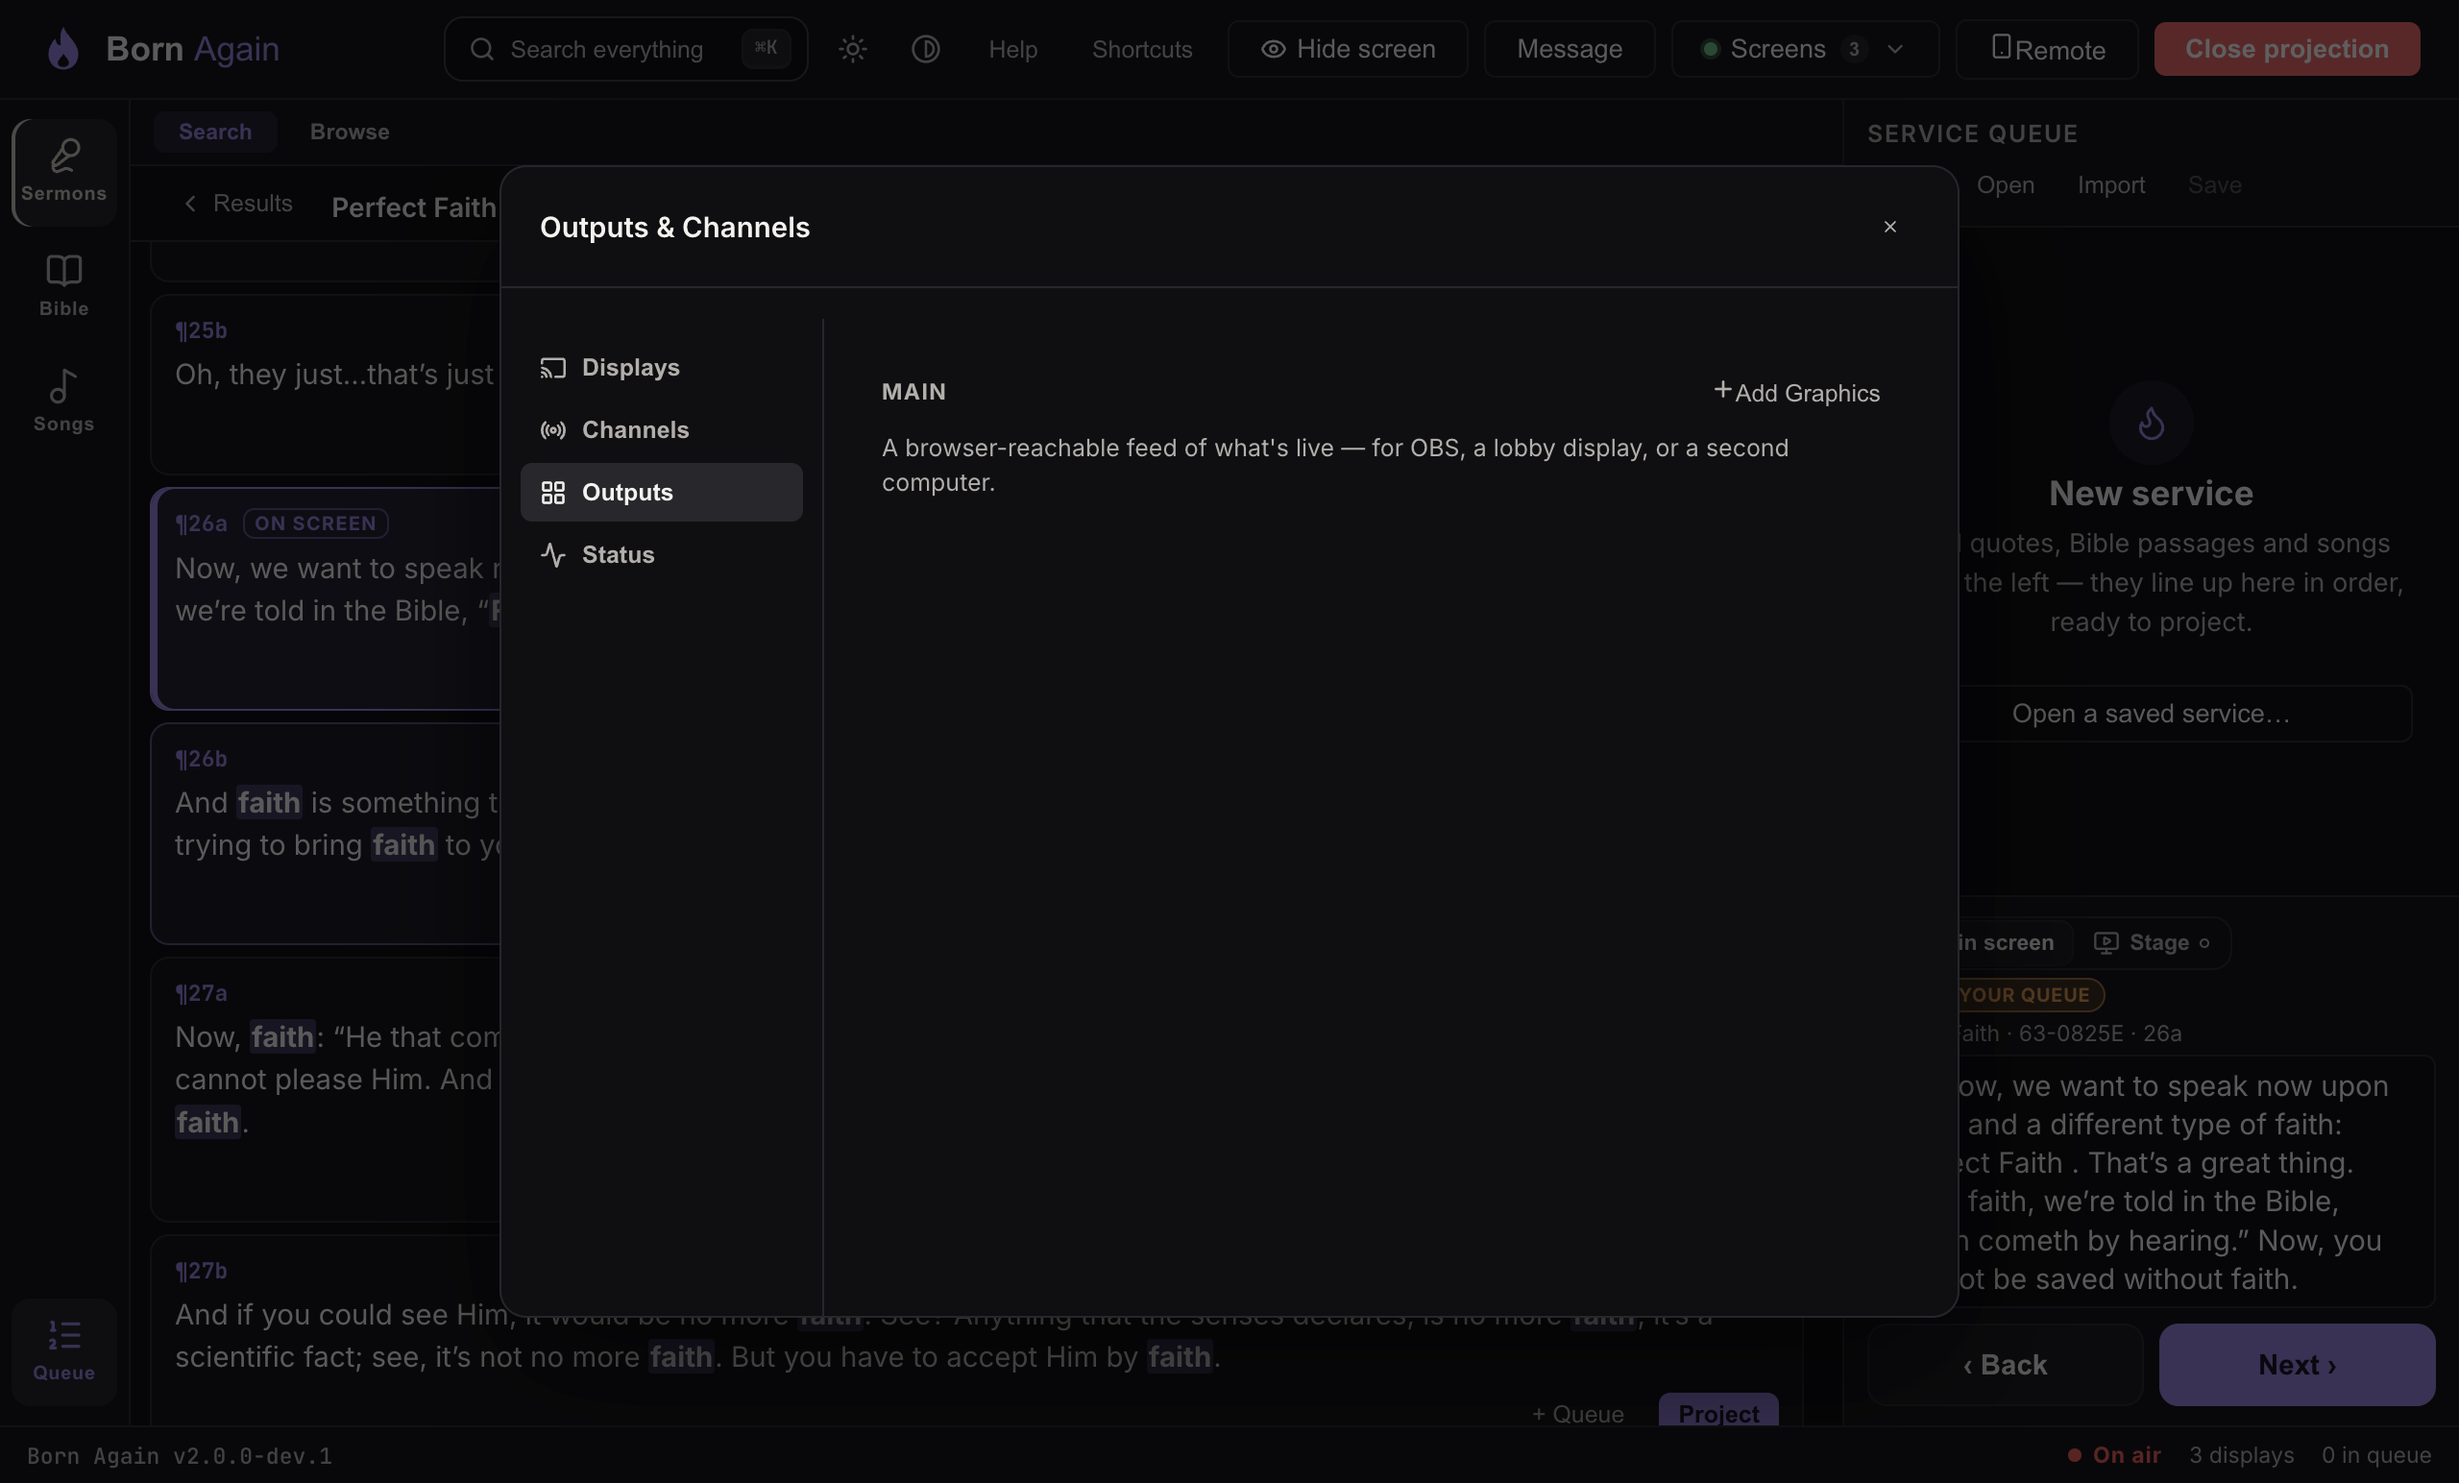
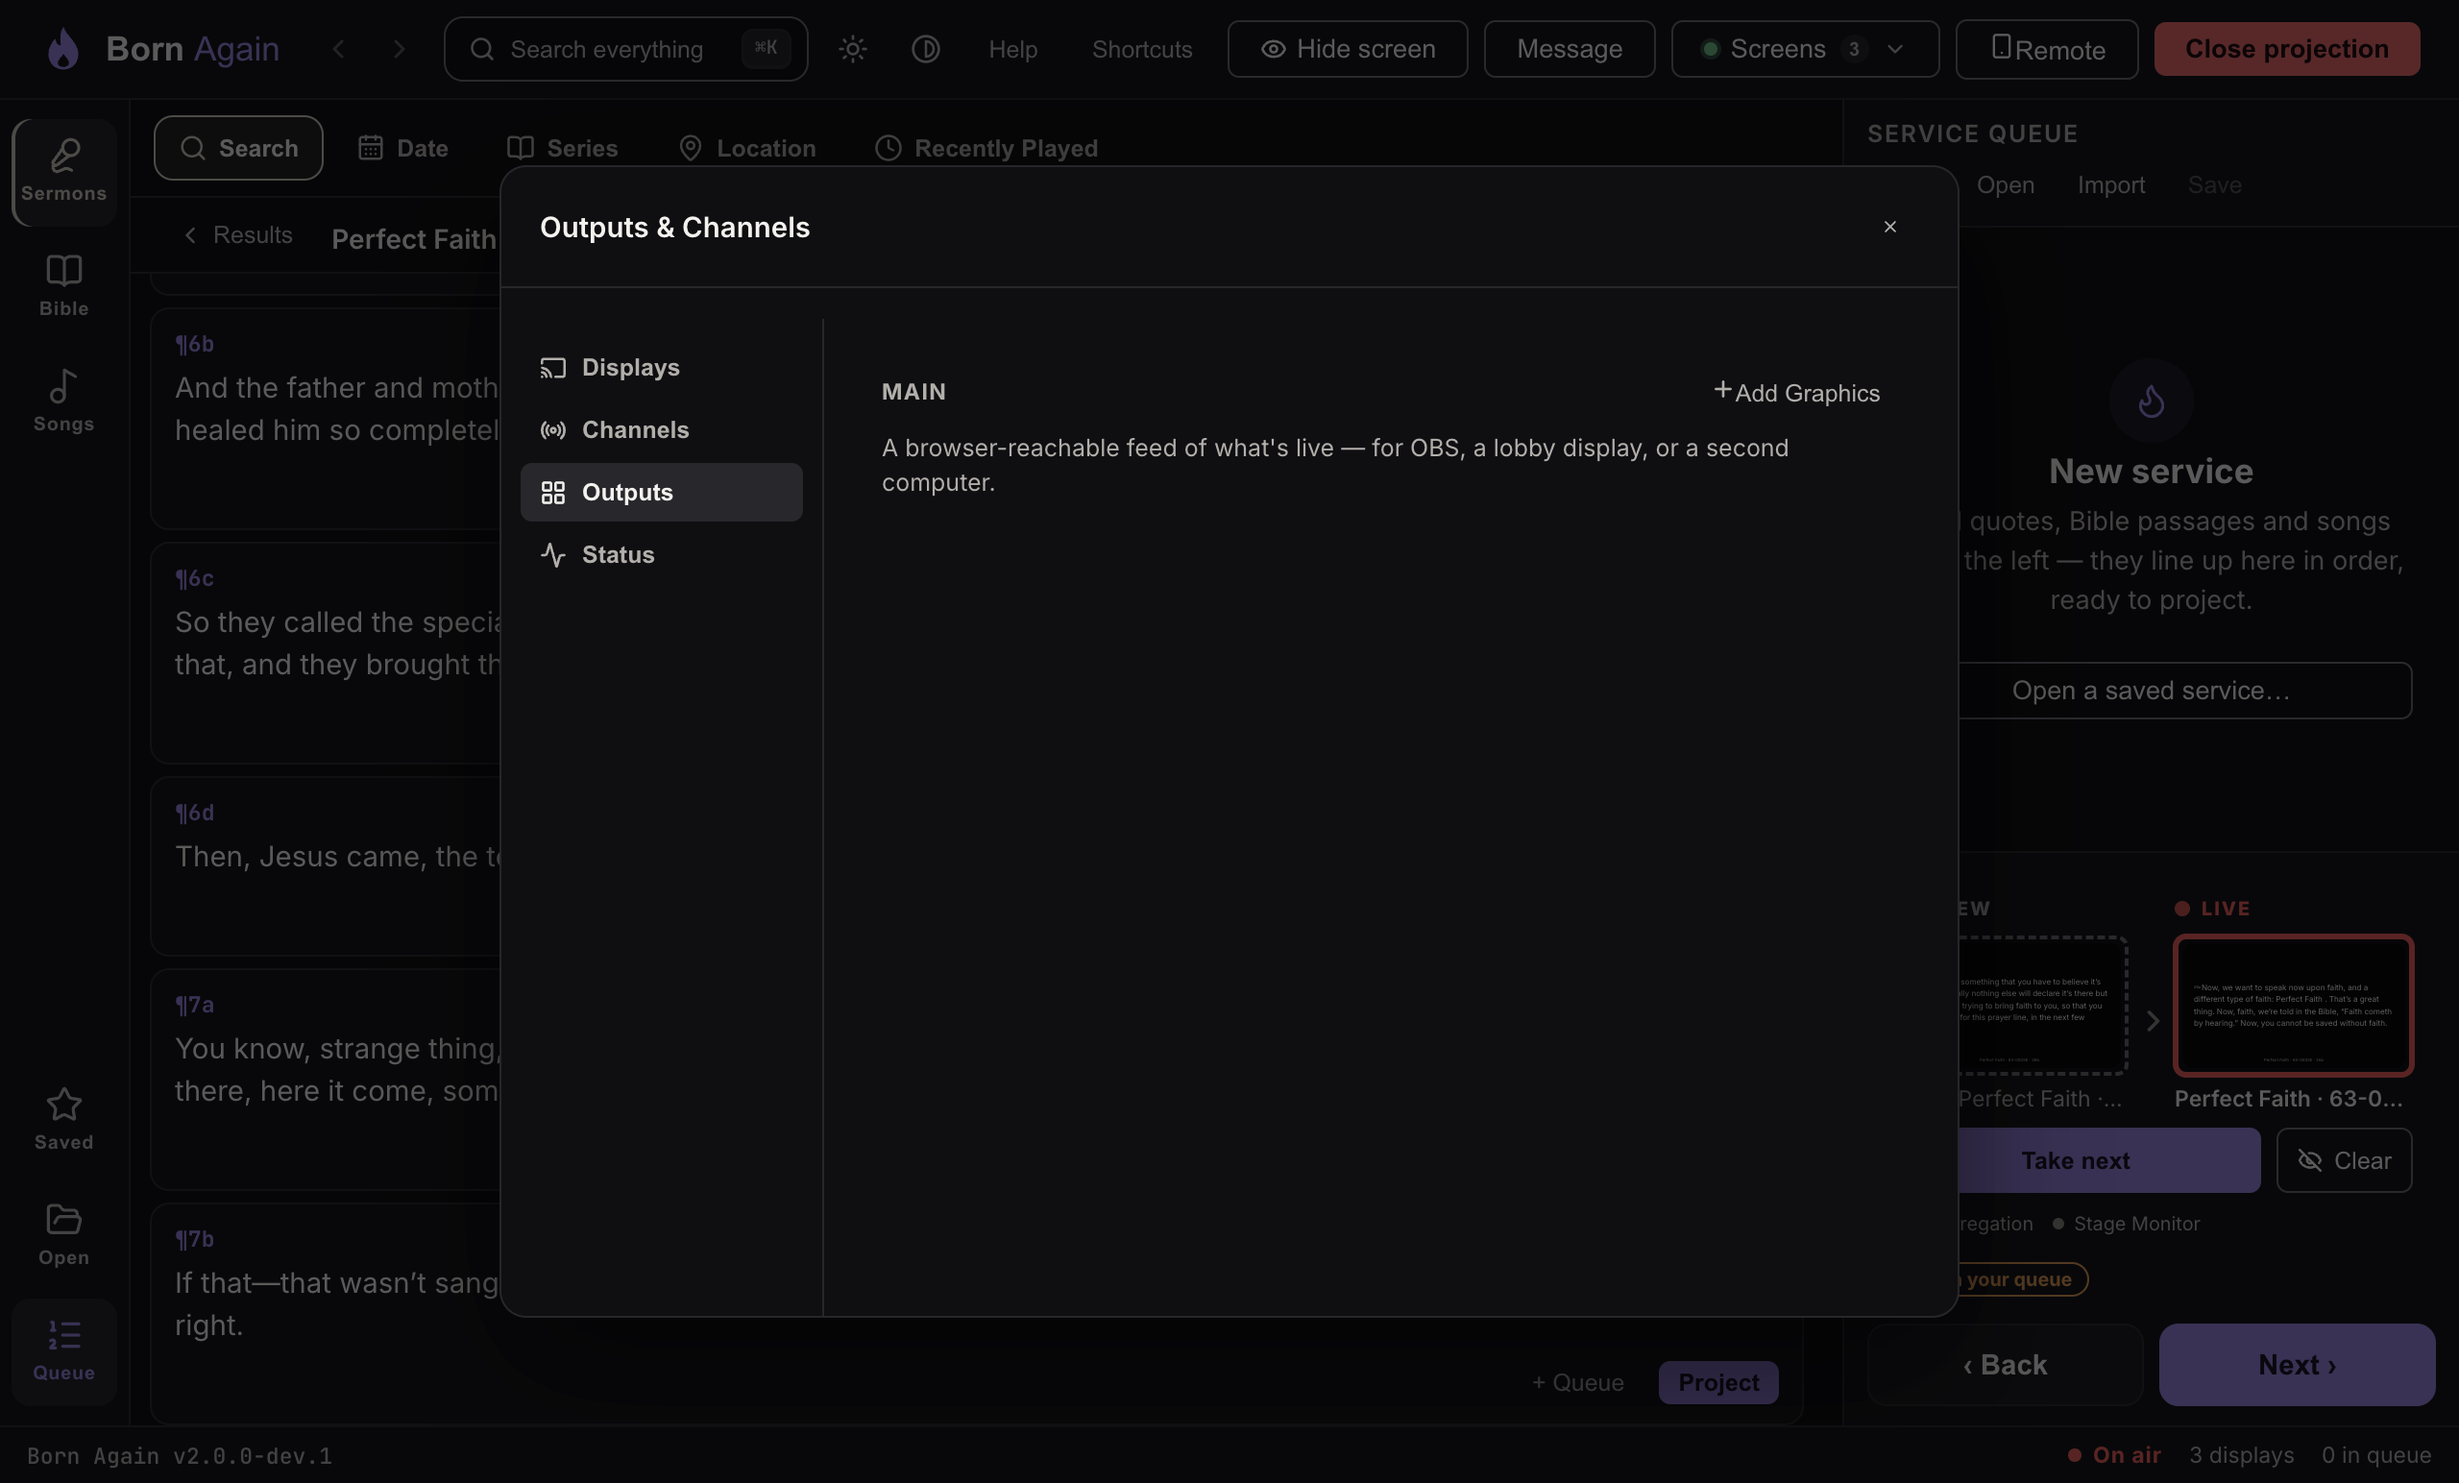
QA: batch 2 report, theme matrix + remote screenshots, regenerated manual screenshots

diff --git a/docs/qa/v2-ui-report.md b/docs/qa/v2-ui-report.md
@@ -67,3 +67,132 @@ queue, a very long sermon, slow hardware. Lists are **not virtualized**; no new 
 - The Preview/Live pair is the existing "on screen + next" block in the queue, restyled by the new tokens only.
 - The Phase 1 prototype (`?proto=drilldown`, Ctrl+Alt+Shift+D) is still in the tree; delete
   `src/renderer/src/prototype/` and the hook in `main.tsx` when you no longer want it.
+
+
+---
+
+# Batch 2 (themes, Preview/Live, performance, safety, organization)
+
+Same branch, `v2-ui-born-again`. `origin/main` (docs-only commit `74ededf`) was merged in at the start
+(v2's `CLAUDE.md` kept). Nothing was merged to `v2-channels`, tagged or released; v1/`main` untouched; v2's
+internal identity unchanged.
+
+## 1. Themes and contrast
+
+- **Automated token check:** `src/test/shared/themeContrast.test.ts` (126 checks) covers every text/surface pair,
+  content colours, status colours, filled-button text, control boundaries (>= 3:1) and the focus ring for
+  dark, light, high-contrast dark and high-contrast light, plus the phone remote's dark and light tokens
+  (AA everywhere; AAA for high-contrast text).
+- **Runtime audit** (a script that walks the live DOM, composites real backgrounds and checks every
+  visible text node and every bordered control): 13 screens/states x 3 window sizes (1040x640, 1440x900,
+  2560x1440) x 4 themes = **156 audits, 0 findings** after fixes. States: sermon search, sermon text +
+  queue, sermon browse, Bible, Songs, context menu, undo toast, Saved panel, command palette, shortcuts,
+  Help, Screens popover, Manage modal. (Not covered: the projection output and stage monitor, which are
+  always black/white by design; the Preview/Live pair with projection open was checked by eye only.)
+- **Found and fixed:** `--border-strong` was ~1.8:1 (now >= 3:1); light-theme sermons colour and live red
+  were just under AA on hover surfaces; high-contrast status colours were not AAA; dimming text with
+  `opacity` pushed several labels under AA; control boundaries (secondary buttons, selects, chips, month
+  pills, chapter numbers) were hairlines; "Connected" and the played-item check turned red when live became
+  red — connected/played are now OK-green and red is only live.
+- **Live is unmistakable:** a red frame, red dot and the word LIVE in the pair, red "On air" in the status
+  bar, red edge on the active queue row; token test asserts live is red-dominant in all four themes.
+- **Not done:** a 4K/large-monitor scale-up of the control UI (it is the same pixel size at 2560 wide;
+  Electron's zoom shortcuts still work).
+
+## 2. Preview / Live pair
+
+- Source of truth is the main process: it pushes `live:changed` on every slide/blank/clear and serves
+  `live:snapshot`; the pair re-reads on a 2.5 s timer and on window focus, so a missed event cannot leave
+  a stale thumbnail. The renderer's own idea of "what's projected" is not consulted for LIVE.
+- Thumbnails are a 1920x1080 miniature using the output's own geometry and the same auto-fit hook.
+- Clicking a queue row stages it in PREVIEW; **Take** projects it (or does **Next** with nothing staged);
+  **Clear** is a blackout that keeps your place. Channel tabs appear when more than one channel exists
+  and show that channel's own output, sync mode and destination health.
+- 7 tests (output wins over UI, recovery on timer, staged never changes live, channel switch, hidden).
+
+## 3. Long lists - measured (clean profile, dev build, Apple-silicon laptop, 120 Hz)
+
+"6x" = Chrome DevTools CPU throttling x6 to approximate a slow booth laptop.
+
+| What | Before | After | Notes |
+|---|---|---|---|
+| Search "God" (25,000 hits) first paint | 4,435 ms, 25,000 rows | **293 ms**, 12 rows | 6x: 25,156 ms -> **937 ms** |
+| Longest sermon (389 paragraphs = 1,680 rows) first paint | 261 ms | **66 ms** | 6x: 957 ms -> **165 ms** |
+| Sermon text DOM nodes | ~11,000 | ~1,100 | |
+| Scroll frame time (sermon, songs, queue) | 8.3 ms avg, p95 ~9, max 16.7 | 8.3 ms avg, p95 9.9, max 17 | 6x: p95 10.2 ms after |
+| Songs (1,163) first paint | 143 ms | 143 ms (native) | windowing engages at 2,000+ |
+| Songs windowed trial (not shipped at this size) | | DOM 11,083 -> 1,383, heap 170 -> 36 MB, but scroll p95 10 -> 18 ms at 6x | |
+| Queue of 240-300 | 8.3 ms avg | unchanged (not windowed) | 4,580 rows still scrolled at ~28 ms |
+
+- **Where windowing is on:** search results (>= 200 rows), sermon text (>= 400 rows), songs (>= 2,000).
+  Below those thresholds native scrolling measured smoother, so lists stay fully mounted.
+- **Where it is not:** the queue — drag reorder, the keyboard model and undo need every row, and 300 rows
+  already scroll at one frame per refresh. Songs at 1,163: native scroll was measurably smoother (see trial).
+- **Honesty note:** my first throttled "after" numbers were far worse because the app auto-restores the
+  last queue and each measurement run had added 240 more rows (up to 4,580). Numbers above are from fresh
+  profiles. The A-Z sticky letter header does not exist in windowed mode (a letter pill is shown instead).
+- Dependency added: `@tanstack/react-virtual` 3.13.12 (~4 kB gz, MIT).
+- 5 tests for `VirtualList` (window size, full scroll height, scroll-to-row, empty, first-visible).
+
+## 4. Safety and speed
+
+- **Undo toasts** (visible countdown, pause on hover/focus, `Ctrl/Cmd+Z`, never take focus, never bind
+  Esc): remove, reorder, new service, open a service, drop-add. **New** still confirms when something is on
+  the screen; otherwise it just happens and can be undone (and un-hides the screen if it hid it).
+- **Not given an undo:** deleting a song from the library and "clear recents" — there is no restore API,
+  so the existing confirmation stays. Listed as a gap.
+- **Drag-to-queue** from sermon paragraphs, search results, Bible verses/hits and songs, with an insertion
+  line, an empty-queue drop zone, and hover-the-Queue-button to open a collapsed panel. Reorder by drag or
+  by **Alt+Up/Down** on a focused row; "Add next in queue" (menu) is the no-mouse insert. Dropping only
+  inserts; a live item that shifts is re-linked by id. 6 + 5 tests.
+
+## 5. Organization
+
+- Context menus (right-click, Menu key, Shift+F10) on paragraphs, results, verses, songs, sermons in the
+  list and queue rows; nothing is highlighted on open, Esc is swallowed.
+- Favorites (local), a **Saved** slide-over with Favorites and Recent, back/forward history across opened
+  sermons/chapters/songs (Alt+Left/Right, mouse buttons, header chevrons). 10 + 5 tests.
+- **History scope:** it tracks places you *opened* (a sermon, a chapter, a song). It does not step back
+  through intermediate columns (year, month, book) — those are one click on the breadcrumb or the strip.
+
+## 6. Open questions from batch 1
+
+- **"Open a saved service":** an **Open** button now sits on the rail, always visible.
+- **Search/Browse sub-tabs:** Sermons' Search is now the first chip of the mode strip (one row less).
+  Bible and Songs keep their Search/Browse switch on purpose: it is already a single row and also carries
+  their tools (grid/list, songbook, import), so folding it would only move those tools.
+
+## 7. Cleanup
+
+Removed the Phase 1 prototype and its entry hook, the old tab-bar and monitor-switch CSS, and 16 other
+unused rules (found by a script that compares every CSS class with the source; dynamically-built class
+names were kept). No unused components were found.
+
+## Verification
+
+- `npm run typecheck` clean. `npm test`: **56 files, 842 tests passing** (677 at the end of batch 1).
+- Existing tests changed (legitimately): the Songs A-Z test (jump is now a virtualizer scroll, not a sticky
+  header measurement); `ServiceQueue` props became optional with defaults; `setup.ts` gained mocks for the
+  three new IPC calls. No assertions were loosened to pass.
+- **Phone remote**, Playwright WebKit 18.2 (the Safari engine, not real iOS Safari) and desktop Chrome at
+  390x844, dark and light: loads, no console errors, no horizontal overflow, brand/title/theme correct.
+  Screens in `docs/qa/ui-batch2/`. The remote's diagnostics live in the desktop popover, covered by the
+  existing RemotePanel tests; not re-driven by hand.
+- Help manual: screenshots regenerated with `npm run docs:screenshots` (two data-dependent shots skipped as
+  before); new page "Preview, Live, and saving time", plus updates to the cheat sheet, Hide/Clear page
+  and What's new.
+- Screens: `docs/qa/ui-batch2/` (light/dark/high-contrast at min, laptop and large).
+
+## Not tested
+
+Real touch hardware; real iOS/Android browsers; Windows and Linux; a screen reader; a physical projector
+beyond the screenshot script opening the projection window on this machine's displays; the
+Channels/Destinations/Outputs flows were exercised only by the existing tests and the screenshot script
+(no new manual pass); automation API panel unchanged and not re-driven; the drag-and-drop was tested with
+synthetic events (the browser's real drag gesture was not scripted); performance on a real slow machine
+(only CPU throttling).
+
+## Identity pass (deliberately NOT done in this batch)
+
+Installer icons (`build/icons`), the Bonjour/mDNS service name "BORN Remote", `productName`/`appId`,
+the macOS app bundle name, update-check wording that names the v1 product, and `app.setName`.
